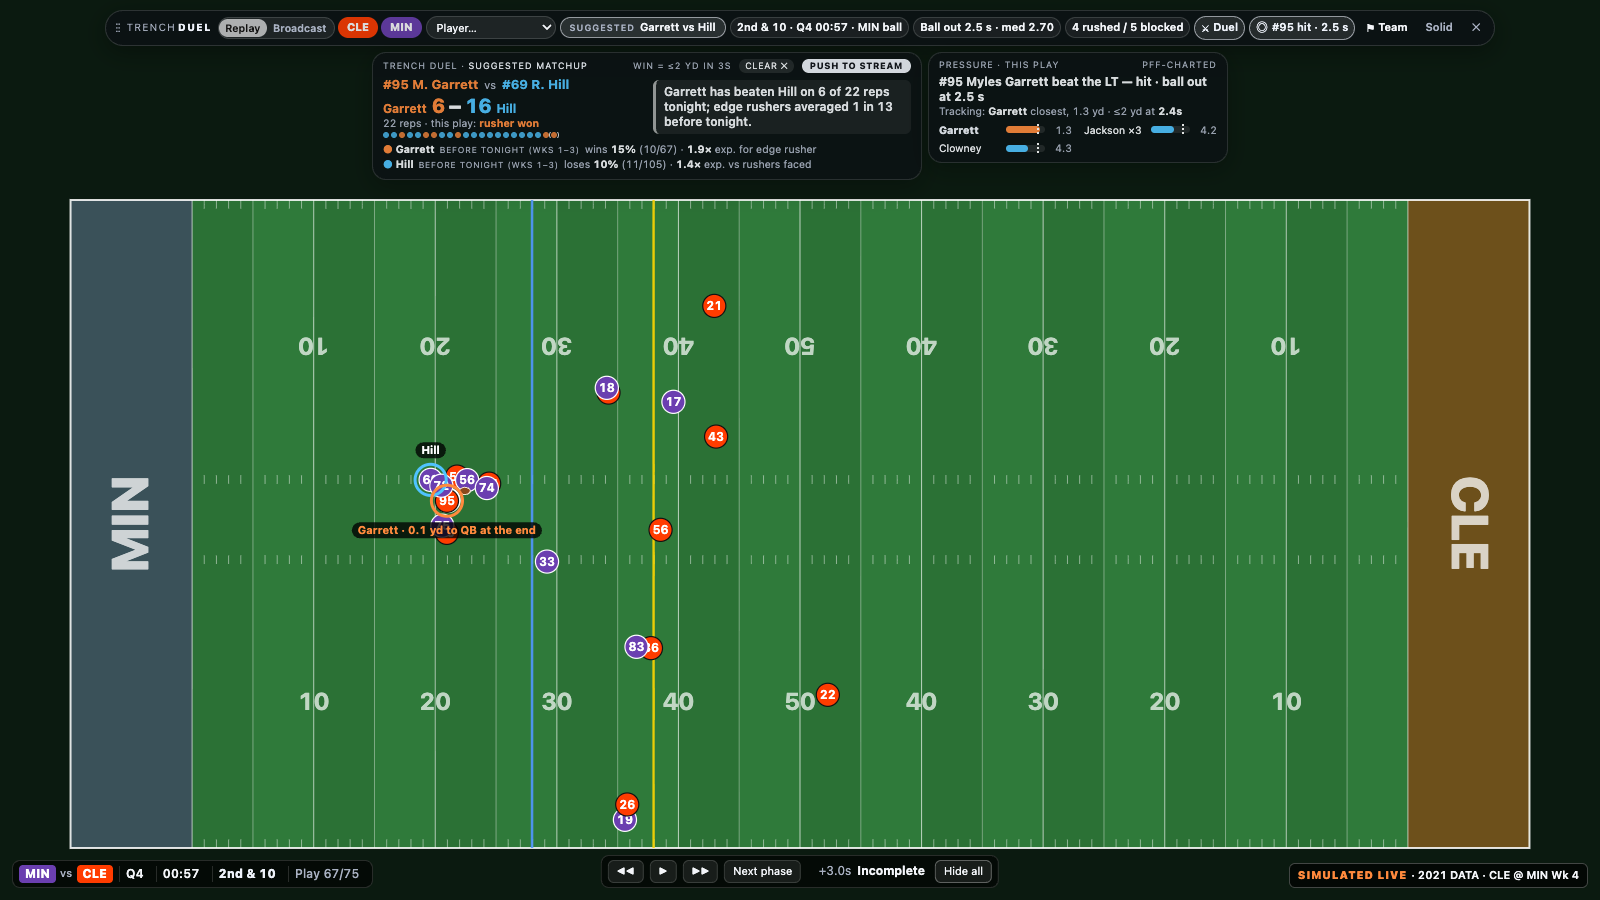
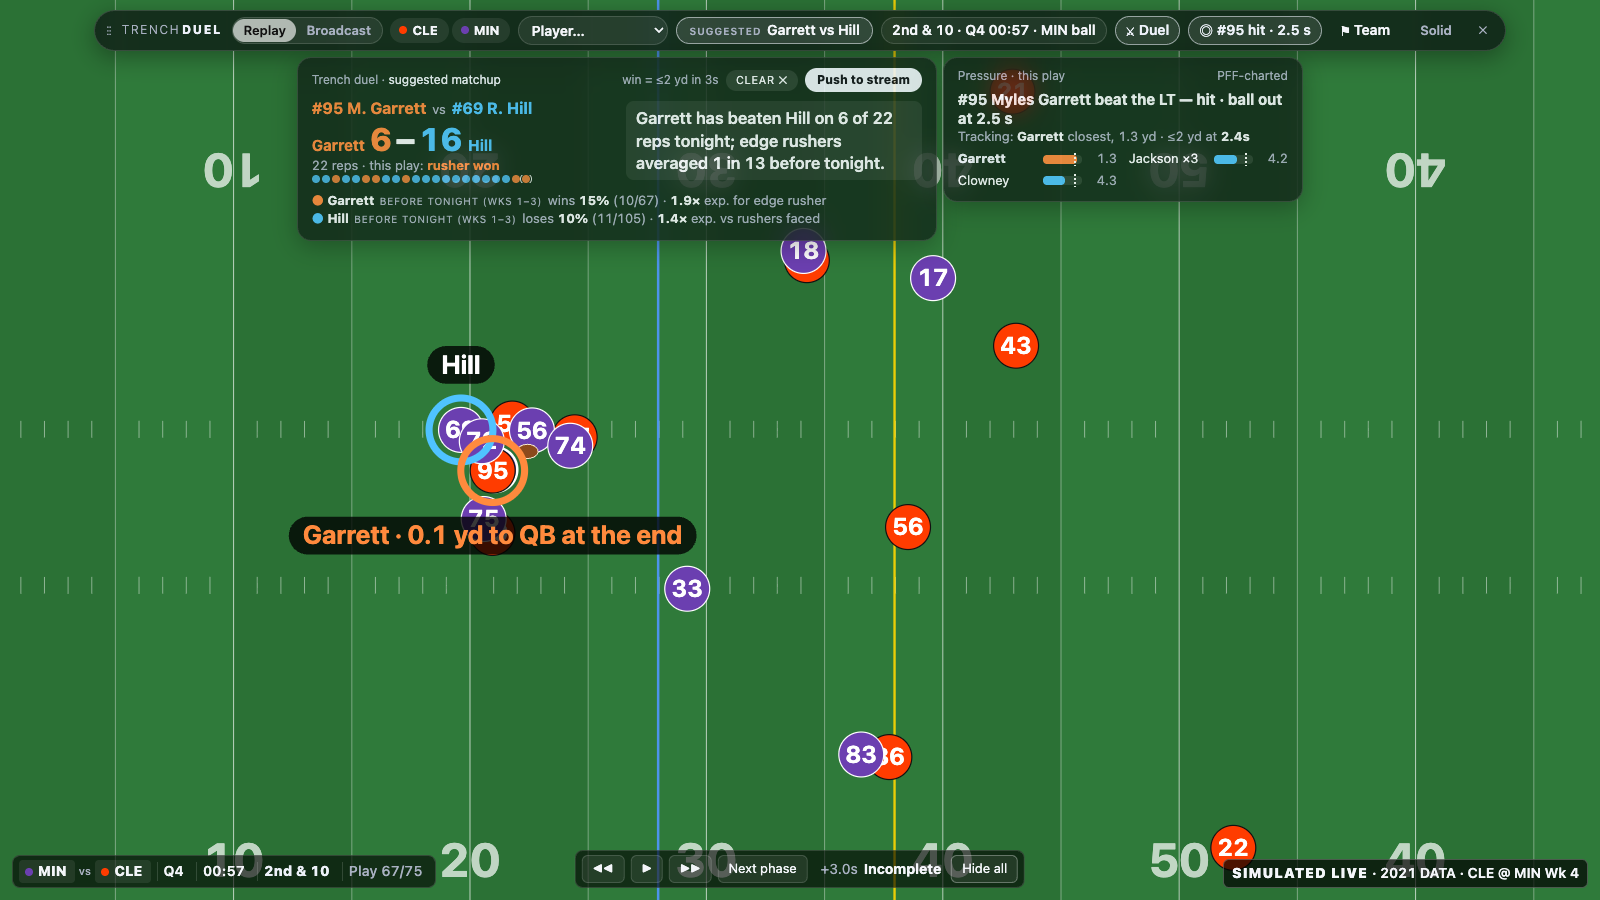
Full-screen zoomed field and a quieter, bigger UI: colour only on the duel, results and on-air state

diff --git a/overlay/style.css b/overlay/style.css
@@ -1,5 +1,5 @@
 :root {
-  --glass: rgba(12, 14, 20, 0.68);
+  --glass: rgba(14, 16, 19, 0.72);
   --solid: rgb(16, 18, 25);
   --blur: blur(12px) saturate(1.2);
   --line: rgba(255, 255, 255, 0.14);
@@ -17,7 +17,7 @@
   --font: -apple-system, BlinkMacSystemFont, "Segoe UI", Roboto, "Helvetica Neue", Arial, sans-serif;
 }
 * { box-sizing: border-box; font-variant-numeric: tabular-nums; }
-html, body { margin: 0; height: 100%; overflow: hidden; background: #0b1a10; color: var(--text); font: 12px/1.35 var(--font); font-variant-numeric: tabular-nums; }
+html, body { margin: 0; height: 100%; overflow: hidden; background: #0e1013; color: var(--text); font: 12px/1.35 var(--font); font-variant-numeric: tabular-nums; }
 canvas#field { position: fixed; inset: 0; width: 100vw; height: 100vh; display: block; }
 button, select { font: inherit; color: inherit; }
 
@@ -40,7 +40,7 @@ button, select { font: inherit; color: inherit; }
 #controls .btn-hide { margin-left: 4px; border-color: rgba(255, 255, 255, 0.3); }
 
 .replay-label { position: fixed; right: 12px; bottom: 12px; z-index: 1000; background: rgba(0, 0, 0, 0.7); border: 1px solid rgba(255, 255, 255, 0.25); border-radius: 6px; padding: 4px 8px; font-size: 11px; font-weight: 600; pointer-events: none; max-width: min(46vw, max(280px, calc(50vw - 160px))); }
-.replay-label b { color: var(--win); letter-spacing: 0.08em; margin-right: 4px; }
+.replay-label b { color: var(--text); letter-spacing: 0.08em; margin-right: 4px; }
 
 .hint { position: fixed; right: 12px; top: 10px; color: rgba(255, 255, 255, 0.55); font-size: 10px; pointer-events: none; }
 .fatal { position: fixed; inset: 40% 20% auto; background: var(--solid); border: 1px solid var(--win); padding: 16px; border-radius: 8px; font-size: 14px; text-align: center; }
@@ -135,8 +135,8 @@ button, select { font: inherit; color: inherit; }
 .st { display: flex; align-items: baseline; gap: 4px; line-height: 1.25; min-width: 0; white-space: nowrap; }
 .st .sl { font-size: 10px; color: var(--dim); overflow: hidden; text-overflow: ellipsis; }
 .st .sv { font-size: 12px; font-weight: 800; font-variant-numeric: tabular-nums; margin-left: auto; }
-.st .sv.hi { color: var(--win); }
-.st .sv.lo { color: var(--hold); }
+.st .sv.hi { color: var(--text); }
+.st .sv.lo { color: var(--text); }
 .st .lg { font-size: 9px; color: var(--dim); white-space: nowrap; }
 .cov { font-size: 10px; color: var(--dim); margin-top: 3px; white-space: nowrap; overflow: hidden; text-overflow: ellipsis; }
 .cov b { color: var(--text); }
@@ -186,7 +186,9 @@ body.broadcast #btnPrev, body.broadcast #btnPlay, body.broadcast #btnNext, body.
 body.solid #bar, body.solid .pill, body.solid .chrome, body.solid .replay-label, body.solid .notice { background: var(--solid); -webkit-backdrop-filter: none; backdrop-filter: none; }
 
 /* ---------- team colours as small chips: app.js sets --team / --team-ink inline ---------- */
-.chip, .sb-team { background: var(--team, #888); color: var(--team-ink, #fff); }
+/* team colour only as a small dot beside the abbreviation */
+.chip, .sb-team { display: inline-flex; align-items: center; gap: 5px; background: rgba(255, 255, 255, 0.08); color: var(--text); }
+.chip::before, .sb-team::before { content: ""; width: 8px; height: 8px; border-radius: 50%; background: var(--team, #888); flex: none; }
 .team-dot { background: var(--team, #888); }
 
 /* ---------- bar slots: situation, offense look, defense ---------- */
@@ -197,7 +199,7 @@ body.solid #bar, body.solid .pill, body.solid .chrome, body.solid .replay-label,
 .tally .who .r { color: var(--win); }
 .tally .who .b { color: var(--hold); }
 .tally .who .pending { color: var(--dim); }
-#playResult.bad { color: var(--win); }
+#playResult.bad { color: var(--text); }
 /* chrome.js hides the keyboard hint while the bar would cover it */
 body.hint-off .hint { visibility: hidden; }
 .st .ct { font-size: 9.5px; color: var(--dim); }
@@ -248,7 +250,7 @@ body.viewer .notice { top: var(--safe-y); bottom: auto; }
 
 /* lower-left, above the scorebug, inside the safe margin; narrow enough to stay off the middle of the field */
 .vcard { position: fixed; z-index: 60; left: var(--safe-x); bottom: calc(var(--safe-y) + 44px); width: min(420px, 34vw); min-width: 300px;
-  padding: 12px 16px 10px; border-radius: 12px; border: 1px solid rgba(255, 255, 255, 0.16); border-left: 4px solid var(--win);
+  padding: 12px 16px 10px; border-radius: 12px; border: 1px solid rgba(255, 255, 255, 0.16); border-left: 3px solid rgba(255, 255, 255, 0.55);
   background: rgba(10, 12, 18, 0.74); -webkit-backdrop-filter: var(--blur); backdrop-filter: var(--blur); box-shadow: 0 10px 32px rgba(0, 0, 0, 0.45);
   color: var(--text); opacity: 1; transform: none; transition: opacity 220ms var(--ease-out), transform 220ms var(--ease-out); }
 /* enters with a short fade and rise; leaves instantly when pulled (hidden or emptied: no exit animation) */
@@ -277,3 +279,75 @@ body.solid .vcard { background: var(--solid); -webkit-backdrop-filter: none; bac
   @starting-style { .vcard { transform: none; } }
   #bar button:active, #controls button:active, .pill-head button:active { transform: none; }
 }
+
+/* ---------- bigger, calmer type: one text weight (600), heavy only for numbers ---------- */
+#bar { gap: 8px; padding: 5px 10px 5px 6px; }
+#bar .slot, #bar .icon-btn span, #picker, .suggest, #bar .push-btn { font-size: 14px; font-weight: 600; }
+.chip { font-size: 13px; font-weight: 700; padding: 3px 10px 3px 8px; opacity: 1; }
+.chip.dim { opacity: 0.45; }
+.chip.active { outline: 1.5px solid var(--text); outline-offset: 1px; }
+.seg button { font-size: 13px; padding: 3px 10px; }
+.slot { padding: 3px 10px; max-width: 240px; }
+.icon-btn { font-size: 15px; padding: 3px 10px; }
+.suggest { padding: 3px 12px; }
+.suggest span { font-size: 10px; }
+#picker { max-width: 190px; padding: 4px 8px; }
+#solidBtn { font-size: 13px; }
+.brand { font-size: 12px; }
+#scorebug, .replay-label, #controls { font-size: 14px; }
+#controls button { font-size: 13px; padding: 4px 10px; }
+.sb-team { padding: 2px 8px 2px 6px; }
+
+/* pills float over the field: wider, solid-enough glass, no height clip */
+.pill { max-height: none; padding: 10px 14px 12px; border-radius: 14px; }
+#pill-duel { width: 640px; }
+#pill-pressure { width: 360px; }
+#pill-team { width: 440px; }
+.duel-grid { grid-template-columns: 300px 1fr; gap: 14px; }
+.duel-grid .dots { max-width: 290px; }
+.pill-head { font-size: 11px; margin-bottom: 6px; }
+.pill-head button, .pill-head .push-btn { font-size: 11px; padding: 3px 10px; }
+.matchup { font-size: 16px; }
+.matchup .vs { font-size: 13px; }
+.tally .score { font-size: 15px; }
+.tally .score em { font-size: 32px; }
+.tally .who { font-size: 13px; }
+.dot { width: 8px; height: 8px; }
+.oneliner, .duel-grid .oneliner { font-size: 16.5px; line-height: 1.35; padding: 6px 10px; }
+.ctx { font-size: 13px; margin-top: 8px; }
+.ctx .ctx-k { font-size: 10px; }
+.pr-top { font-size: 15px; }
+.pr-sub { font-size: 13px; }
+.barrow { font-size: 13px; grid-template-columns: 80px 1fr 30px; }
+.track { height: 9px; }
+.st .sl { font-size: 13px; }
+.st .sv { font-size: 14px; }
+.st .ct, .st .lg { font-size: 11.5px; }
+.cov { font-size: 12.5px; margin-top: 6px; }
+.stats { gap: 4px 18px; }
+
+/* the primary action reads first */
+.pill-head .push-btn { font-size: 12px; padding: 4px 12px; }
+
+/* viewer lower-third: the line is the thing people read */
+.vc-line { font-size: 20px; }
+.vcard { width: min(460px, 36vw); }
+
+/* the bar keeps only what the streamer needs to act: the offense/defense slots go below 1700px, Solid below 1400px */
+@media (max-width: 1700px) {
+  .slot-off, .slot-def { display: none; }
+  #picker { max-width: 150px; }
+}
+@media (max-width: 1400px) {
+  #bar { gap: 6px; }
+  #solidBtn { display: none; }
+  #picker { max-width: 120px; }
+  .seg button { padding: 3px 8px; }
+  .icon-btn { padding: 3px 8px; }
+}
+
+/* craft floor: no thick left rules on callouts, no tracked-caps kicker over the pill content */
+.oneliner, .duel-grid .oneliner { border-left: 0; background: rgba(255, 255, 255, 0.08); border-radius: 8px; }
+.vcard { border-left: 1px solid rgba(255, 255, 255, 0.16); }
+.pill-head { font-size: 12px; letter-spacing: 0; text-transform: none; }
+.pill-head .push-btn { text-transform: none; letter-spacing: 0; }

diff --git a/overlay/app.js b/overlay/app.js
@@ -19,7 +19,7 @@
     LA: 'The Rams', LAC: 'The Chargers', LV: 'Las Vegas', MIA: 'Miami', MIN: 'Minnesota', NE: 'New England', NO: 'New Orleans', NYG: 'The Giants',
     NYJ: 'The Jets', PHI: 'Philadelphia', PIT: 'Pittsburgh', SEA: 'Seattle', SF: 'San Francisco', TB: 'Tampa Bay', TEN: 'Tennessee', WAS: 'Washington'
   };
-  var PILL_MAX = 140; // px: every pill is designed to fit this height; the field starts below it
+  var PILL_MAX = 140; // px: every pill is designed to fit this height
   // Broadcast mode: real footage of one play in this game, shown behind the overlay.
   var BROADCAST = {
     playId: 2349,
@@ -194,31 +194,39 @@
   }
 
   // ---------- canvas / field ----------
-  var cv = $('field'), ctx = cv.getContext('2d'), dpr = 1, view = { s: 10, ox: 0, oy: 0 }, barH = 34;
+  var cv = $('field'), ctx = cv.getContext('2d'), dpr = 1, view = { s: 10, ox: 0, oy: 0 };
   document.documentElement.style.setProperty('--pill-max', PILL_MAX + 'px');
   function resize() {
     dpr = window.devicePixelRatio || 1;
     cv.width = Math.round(innerWidth * dpr); cv.height = Math.round(innerHeight * dpr);
-    if (S.overlay && $('bar').offsetHeight) barH = $('bar').offsetHeight;
-    // reserve a band for the bar and one row of pills so an open pill never covers the field
-    var padX = 16, top = VIEWER ? 16 : innerWidth <= 760 ? 96 : 10 + barH + 6 + PILL_MAX + 8, bottom = innerWidth <= 760 ? 124 : 52;
-    var s = Math.min((innerWidth - 2 * padX) / 120, (innerHeight - top - bottom) / 53.3);
-    view.s = s;
-    view.ox = (innerWidth - 120 * s) / 2;
-    view.oy = top + ((innerHeight - top - bottom) - 53.3 * s) / 2;
+    camera();
     layoutVideo();
     if (!dragged) placeOverlayDefault();
     draw();
   }
-  // Broadcast footage starts where the field starts, so open pills never cover it.
+  // Broadcast footage fills the window like the field does.
   // The iframe covers that band at 16:9 and is cropped, which also pushes YouTube's title bar and controls out of view.
   function layoutVideo() {
-    var box = $('video'), f = box.firstChild, top = Math.round(view.oy), w = innerWidth, h = innerHeight - top;
+    var box = $('video'), f = box.firstChild, top = 0, w = innerWidth, h = innerHeight;
     box.style.top = top + 'px';
     if (!f) return;
     var fw = Math.max(w, h * 16 / 9) * 1.08, fh = fw * 9 / 16;
     f.style.width = fw + 'px'; f.style.height = fh + 'px';
     f.style.left = (w - fw) / 2 + 'px'; f.style.top = (h - fh) / 2 + 'px';
+  }
+  // Broadcast-style camera, fixed for each play: the field's 53.3-yd width fills the window height, and the window
+  // width shows the stretch around the line of scrimmage, centred a few yards downfield, clamped to the field.
+  var CAMERA_LEAD_YDS = 6;
+  var ZOOM = 1.4; // on top of fitting the field's 53.3-yd width to the window height
+  function camera() {
+    var p = plays[S.i], s = innerHeight / 53.3 * ZOOM, visW = innerWidth / s, visH = innerHeight / s;
+    var cx = p.ball[0][0] + CAMERA_LEAD_YDS, cy = p.ball[0][1], xmin, ytop;
+    if (visW >= 120) xmin = (120 - visW) / 2;
+    else xmin = Math.max(0, Math.min(120 - visW, cx - visW / 2));
+    // vertically centred on the ball at the snap, never past either sideline
+    if (visH >= 53.3) ytop = 53.3 + (visH - 53.3) / 2;
+    else ytop = Math.max(visH, Math.min(53.3, cy + visH / 2));
+    view.s = s; view.ox = -xmin * s; view.oy = -(53.3 - ytop) * s;
   }
   // field y=53.3 is drawn at the top of the screen
   function X(x) { return view.ox + x * view.s; }
@@ -284,6 +292,7 @@
 
   function drawPlayers(play, f) {
     var s = view.s, r = Math.max(5, s * 0.95), font = getComputedStyle(document.body).fontFamily;
+    var k = Math.max(1, s / 10); // annotation scale: grows with the camera
     var pos = {};
     play.players.forEach(function (p) { pos[p.nflId] = lerpXY(p.xy, f); });
     var duel = S.overlay && S.pills.duel ? currentDuel() : null;
@@ -296,7 +305,7 @@
     var qbDist = null, qbCol = null;
     if (replayMarks && ringR != null && pos[ringR] && pos[play.qbId]) {
       var a = pos[ringR], q = pos[play.qbId], d = dist(a, q), c = pressureColor(d);
-      ctx.strokeStyle = c; ctx.lineWidth = 2.5; ctx.setLineDash([6, 5]);
+      ctx.strokeStyle = c; ctx.lineWidth = 2.5 * k; ctx.setLineDash([6 * k, 5 * k]);
       ctx.beginPath(); ctx.moveTo(X(a[0]), Y(a[1])); ctx.lineTo(X(q[0]), Y(q[1])); ctx.stroke(); ctx.setLineDash([]);
       qbDist = d; qbCol = c;
     }
@@ -317,7 +326,7 @@
     var hi = [ringB, ringR, ringOnly].filter(function (id) { return id != null && pos[id]; });
     hi.forEach(function (id) {
       ctx.strokeStyle = id == ringR ? cssVar('--win', '#ff8a3d') : id == ringB ? cssVar('--hold', '#4fc3ff') : cssVar('--accent', '#eef2fa');
-      ctx.lineWidth = 3; ctx.beginPath(); ctx.arc(X(pos[id][0]), Y(pos[id][1]), r + 4, 0, Math.PI * 2); ctx.stroke();
+      ctx.lineWidth = 3 * k; ctx.beginPath(); ctx.arc(X(pos[id][0]), Y(pos[id][1]), r + 4 * k, 0, Math.PI * 2); ctx.stroke();
     });
     // the rusher's tag goes on the side away from the blocker, the blocker's on the other side
     var rusherAbove = !(ringR != null && ringB != null && pos[ringR] && pos[ringB]) || Y(pos[ringR][1]) <= Y(pos[ringB][1]);
@@ -326,10 +335,10 @@
       var cx = X(pos[id][0]), cy = Y(pos[id][1]), isR = id == ringR;
       var above = isR ? rusherAbove : id == ringB ? !rusherAbove : false;
       var label = lastName(id) + (isR && qbDist != null ? ' · ' + qbDist.toFixed(1) + ' yd to QB at the end' : '');
-      ctx.font = '700 11px ' + font; ctx.textAlign = 'center'; ctx.textBaseline = 'middle';
-      var w = ctx.measureText(label).width + 12, ly = above ? cy - r - 26 : cy + r + 10;
-      ctx.fillStyle = 'rgba(0,0,0,0.78)'; roundRect(cx - w / 2, ly, w, 16, 8); ctx.fill();
-      ctx.fillStyle = isR && qbCol ? qbCol : '#fff'; ctx.fillText(label, cx, ly + 8.5);
+      ctx.font = '700 ' + Math.round(11 * k) + 'px ' + font; ctx.textAlign = 'center'; ctx.textBaseline = 'middle';
+      var w = ctx.measureText(label).width + 12 * k, h = 16 * k, ly = above ? cy - r - 10 * k - h : cy + r + 10 * k;
+      ctx.fillStyle = 'rgba(0,0,0,0.78)'; roundRect(cx - w / 2, ly, w, h, h / 2); ctx.fill();
+      ctx.fillStyle = isR && qbCol ? qbCol : '#fff'; ctx.fillText(label, cx, ly + h / 2 + 0.5);
     });
   }
   function roundRect(x, y, w, h, r) {
@@ -339,6 +348,7 @@
 
   function draw() {
     var play = plays[S.i];
+    camera();
     ctx.setTransform(dpr, 0, 0, dpr, 0, 0);
     drawField(play);
     drawPlayers(play, S.frame);

diff --git a/PITCH.md b/PITCH.md
@@ -15,7 +15,7 @@ Quoted lines are spoken. Bullets are what the presenter does on screen.
 
 - In the repository, run `python3 -m http.server 8000 -d overlay` and leave it running. Broadcast mode needs http, so every demo URL below starts with `http://localhost:8000/`.
 - Open each demo URL in a fresh tab, or reload after pasting it, so the page lands on exactly that moment.
-- Keep the browser window at 1280×720 or larger. At that size no pill sits over the field or the video.
+- Use a full-screen browser window, 1280×720 or larger. The field fills the screen, zoomed in around the line of scrimmage; the bar and pills float over its top edge and can be dragged or hidden with `H`.
 - Put two browser windows side by side. Left: the streamer's controller, `http://localhost:8000/`, which has everything. Right: the viewer page, `http://localhost:8000/viewer.html`, which is what viewers see and what OBS would capture: the game plus only what the controller pushes.
 - Backup if the live push misbehaves: `http://localhost:8000/viewer.html#demo=push&play=67&phase=after` renders the pushed Duel card on its own.
 
